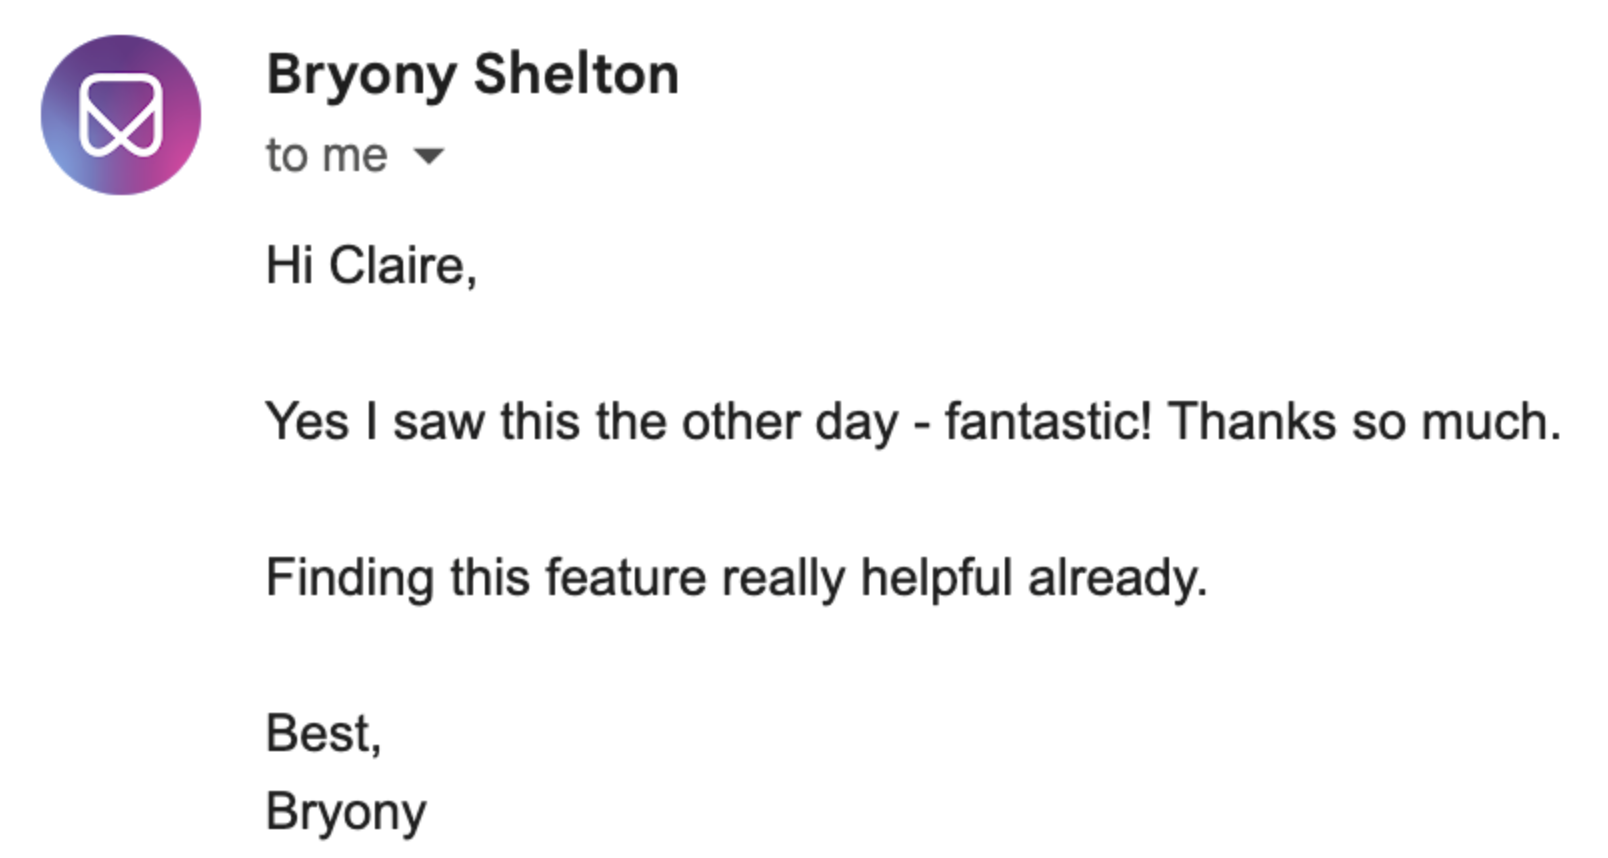
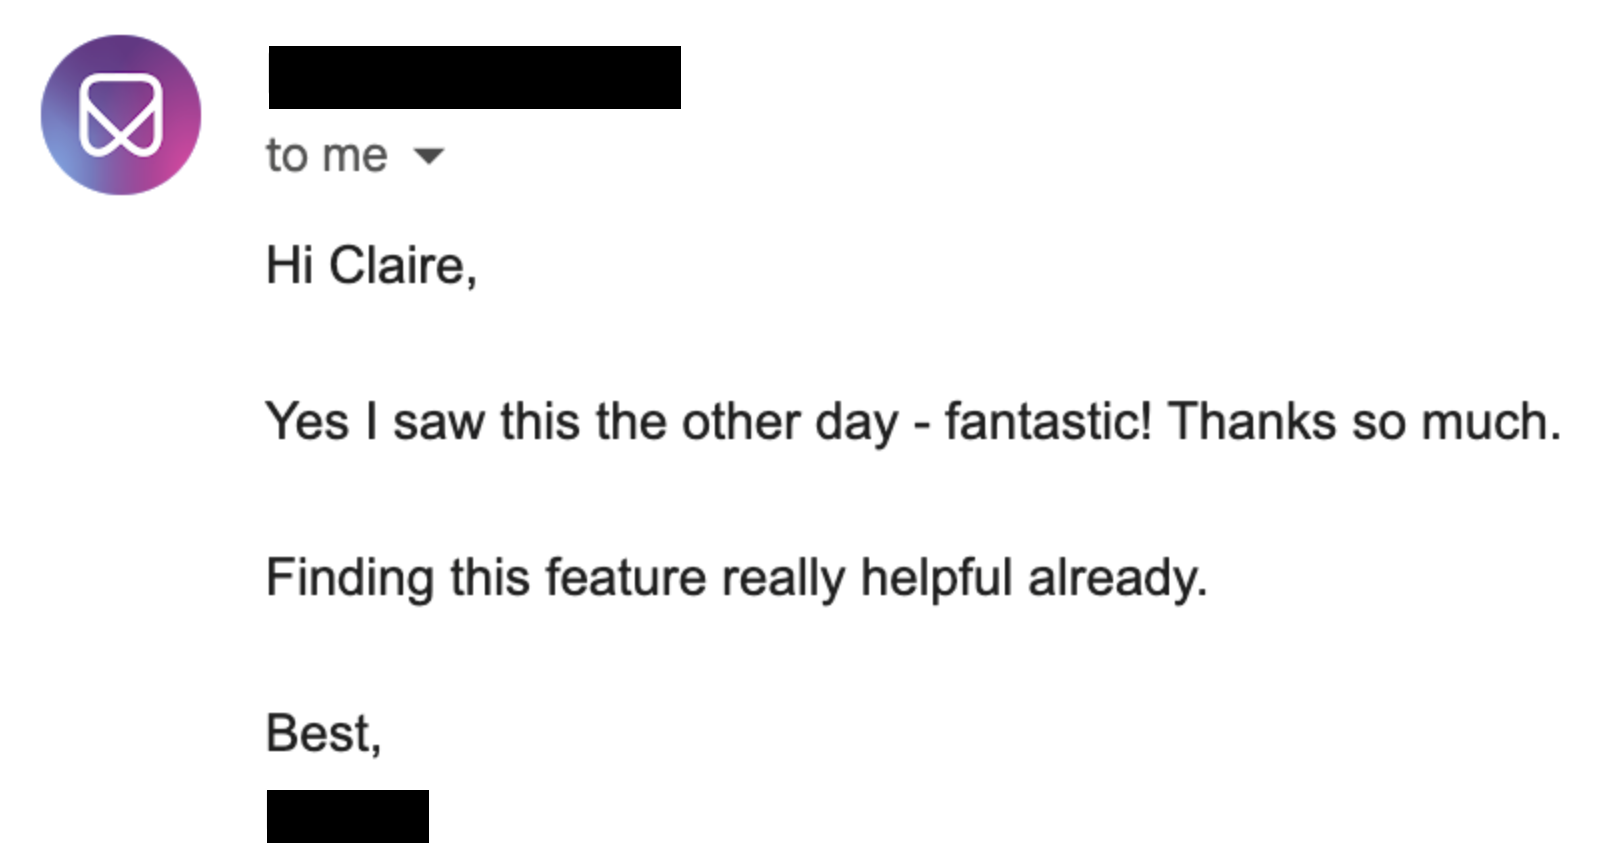
Redact customer PII (Bryony Shelton) from images and text
Black box annotations cover name, email, and portal ID in screenshots.
Text references updated to "a customer" / "the customer" throughout.

Changed region(s): [[0.1555, 0.0303, 0.4353, 0.1515], [0.1555, 0.9091, 0.2799, 1.0]]

diff --git a/index.html b/index.html
@@ -2211,7 +2211,7 @@
       <div class="cs-act" id="cs-act-feedback" style="min-height: 100vh; display: flex; flex-direction: column; justify-content: center; box-sizing: border-box;">
         <p class="cs-act-label">The Feedback</p>
         <p class="cs-pivot" style="font-size: clamp(1.8rem, 3.5vw, 4rem); margin-bottom: 4vh; color: #fff;">Could the screenshot include the URL?</p>
-        <img class="cs-screenshot" src="assets/images/cs1-feedback.png" alt="Slack feedback from Bryony Shelton" />
+        <img class="cs-screenshot" src="assets/images/cs1-feedback.png" alt="Slack feedback from a customer" />
         <p class="case-desc" style="margin-top: 3vh;">The Screen Capture API only captures what's inside the tab — not the address bar, not anything in the browser's own UI. That's a hard constraint baked into the browser. No web API can reach above the tab.</p>
       </div>
 
@@ -2237,8 +2237,8 @@
       <div class="cs-act" id="cs-act-outcome" style="min-height: 100vh; display: flex; flex-direction: column; justify-content: center; box-sizing: border-box;">
         <p class="cs-act-label">The Outcome</p>
         <p class="cs-pivot" style="color: #fff; margin-bottom: 3vh;">Fast feedback loop. Happy customer.</p>
-        <p class="case-desc" style="max-width: 52ch;">The feedback came in, we prototyped the solution with Lovable, handed off the code to engineering, and shipped it.<br><br>Bryony's response says the rest.</p>
-        <img class="cs-screenshot" src="assets/images/cs1-email.png" alt="Email reply from Bryony" style="margin-top: 3vh;" />
+        <p class="case-desc" style="max-width: 52ch;">The feedback came in, we prototyped the solution with Lovable, handed off the code to engineering, and shipped it.<br><br>The customer's response says the rest.</p>
+        <img class="cs-screenshot" src="assets/images/cs1-email.png" alt="Email reply from the customer" style="margin-top: 3vh;" />
       </div>
     </div>
     <div class="hw-widget" id="hw-widget">
@@ -3396,7 +3396,7 @@
 
   <div class="note" id="note-ex01-feedback">
     <div class="note-label">Example 01 &mdash; The Feedback</div>
-    <p class="note-text">After we shipped, a CSM named Bryony relayed a question from a customer: "Could the screenshot include the current URL?" Sounds simple. The answer is no, and here's why. The Screen Capture API only captures what's inside the browser tab. It cannot reach above the tab into browser chrome. The address bar is off-limits. That's a hard constraint from the web platform itself.</p>
+    <p class="note-text">After we shipped, a CSM relayed a question from a customer: "Could the screenshot include the current URL?" Sounds simple. The answer is no, and here's why. The Screen Capture API only captures what's inside the browser tab. It cannot reach above the tab into browser chrome. The address bar is off-limits. That's a hard constraint from the web platform itself.</p>
   </div>
 
   <div class="note" id="note-ex01-prototype">
@@ -3406,7 +3406,7 @@
 
   <div class="note" id="note-ex01-outcome">
     <div class="note-label">Example 01 &mdash; The Outcome</div>
-    <p class="note-text">Bryony replied. Fast loop from "here's the feedback" to "here's the thing you asked for." The email says the rest.</p>
+    <p class="note-text">The customer replied. Fast loop from "here's the feedback" to "here's the thing you asked for." The email says the rest.</p>
   </div>
 
   <div class="note" id="note-ex02">
